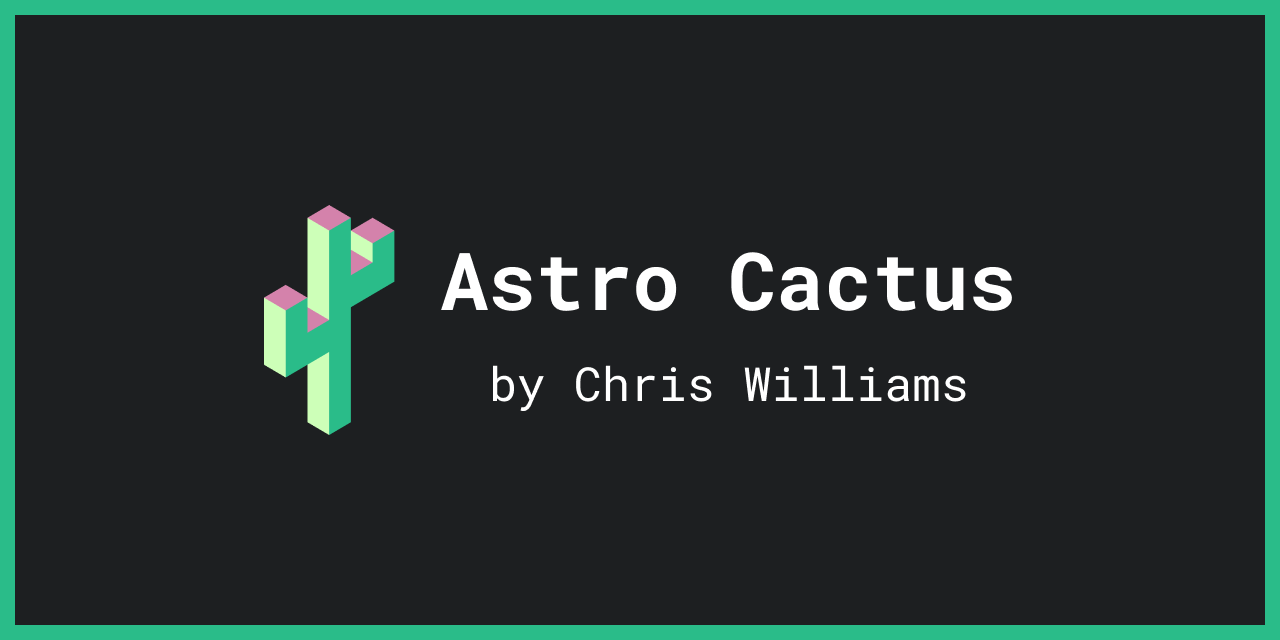
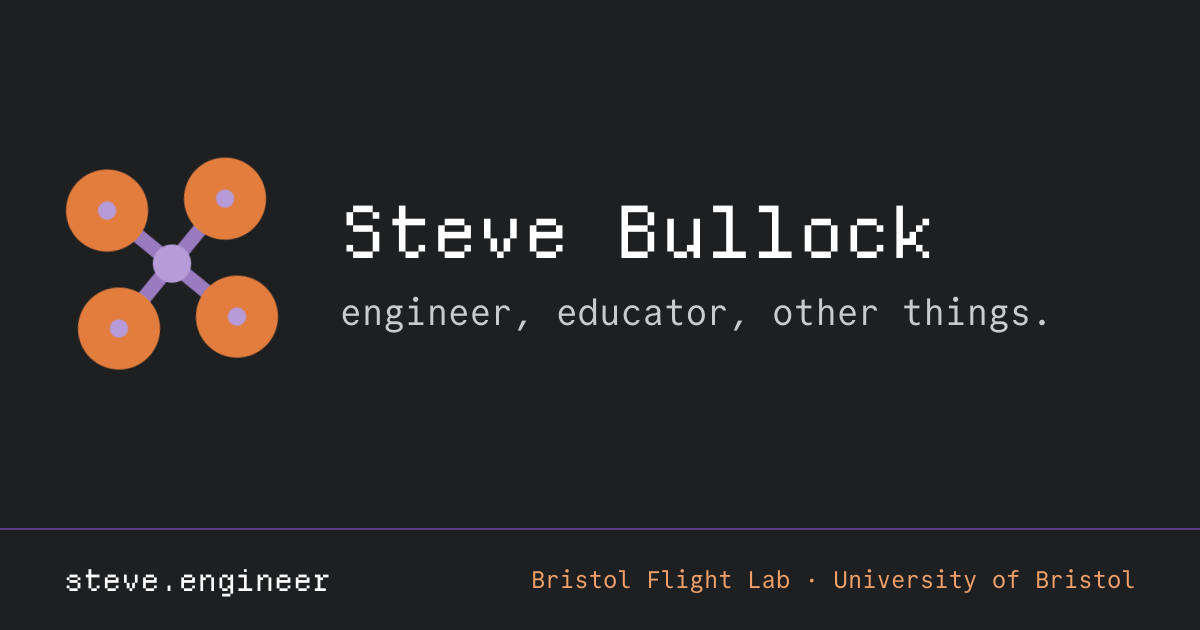
Replace the theme's social card and use the home title for the homepage
Link previews were showing the Astro Cactus default image and the page title
"Home". Render a card in the site's own style (quad logo, Departure Mono
name, tagline, steve.engineer) with scripts/social-card.mjs, and use the home.md
title for the homepage so the <title> and og:title read "Steve Bullock".

Changed region(s): [[0.0, 0.0, 1.0, 1.0], [0.37, 0.573, 0.7708, 0.6333], [0.4317, 0.9048, 0.9558, 0.9349]]

diff --git a/README.md b/README.md
@@ -32,7 +32,8 @@ npm run preview   # serve the production build locally
 | Tag descriptions | `content/tags/*.md` |
 | Colours, fonts, base styles | `src/styles/global.css` (Tailwind v4 `@theme` block) |
 | Logo / favicon source | `public/icon.svg` (also inlined in `src/components/layout/Header.astro`) |
-| Social-card (OG) image template | `src/pages/og-image/_ogMarkup.ts` |
+| Default link-preview image | `public/social-card.png`, rendered by `npm run social-card` from `scripts/social-card.mjs` |
+| Per-post OG image template | `src/pages/og-image/_ogMarkup.ts` |
 
 ### Design bits worth knowing
 
